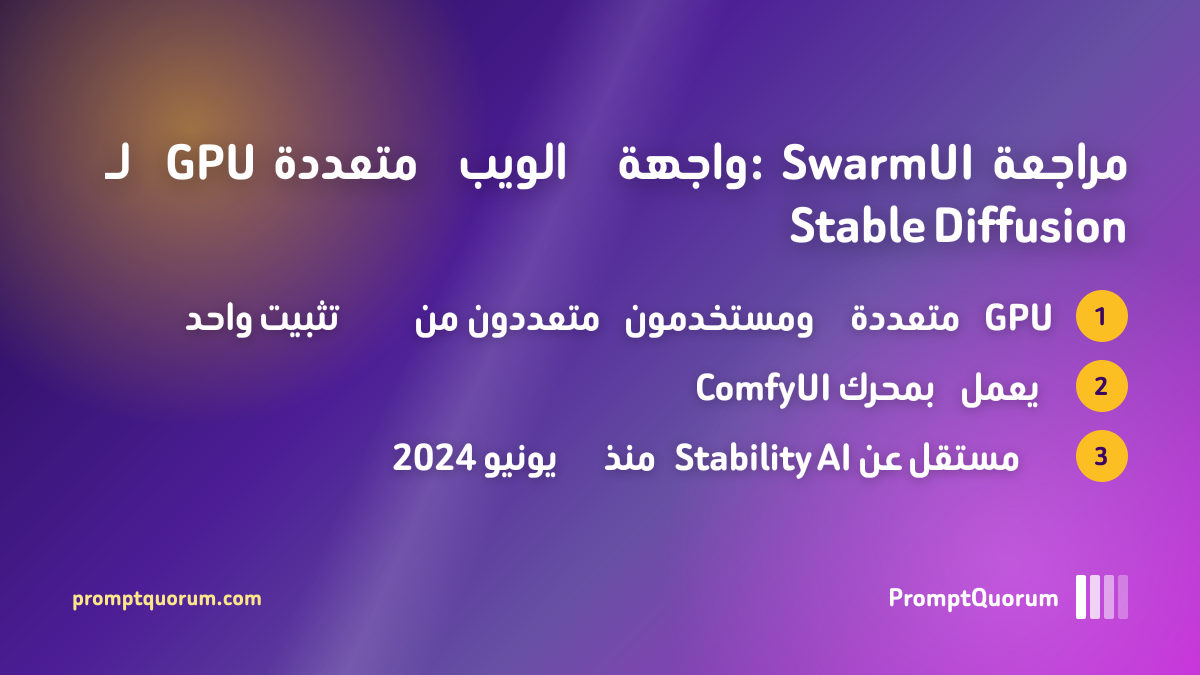
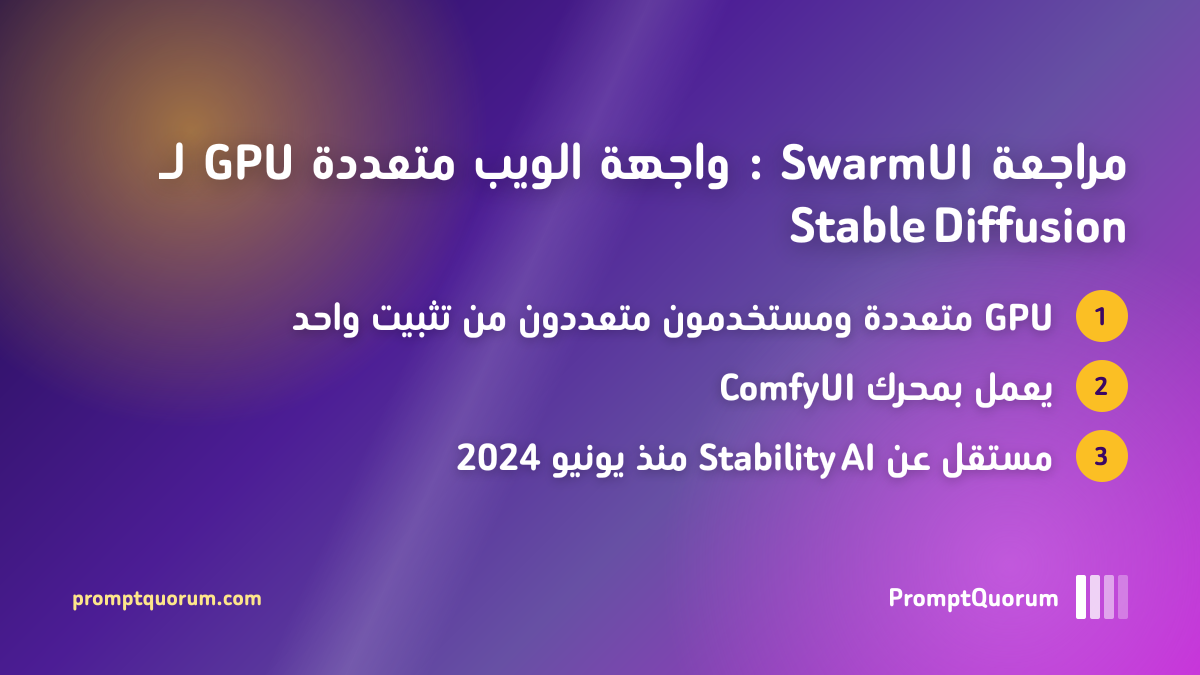
fix(hero-image): exact Arabic word widths via opentype.js shaping; regenerate SwarmUI ar hero

diff --git a/src/app/api/hero-image/route.tsx b/src/app/api/hero-image/route.tsx
@@ -3,6 +3,7 @@ import sharp from 'sharp'
 import fs from 'fs'
 import path from 'path'
 import { splitBidiRuns } from '@/lib/hero/bidi-runs'
+import * as opentype from 'opentype.js'
 
 export const runtime = 'nodejs'
 
@@ -84,9 +85,22 @@ function LogoMark({ color, barWidth = 10, barHeight = 44 }: { color: string; bar
 
 // RTL text: one flex item per Arabic word, one intact LTR item per Latin/number
 // run (see src/lib/hero/bidi-runs.ts). The parent is a row-reverse flex.
-function renderRtlRuns(text: string) {
+// Satori sizes each Arabic word box from unshaped (isolated-form) glyph advances but draws the
+// shaped, connected word inside it, so boxes come out wider than the ink and the gaps between
+// words are uneven. Give every Arabic word an explicit width equal to its shaped width instead
+// (opentype.js applies the Arabic joining features).
+let beirutiBold: opentype.Font | undefined
+function rtlShapedEm(word: string): number {
+  beirutiBold ??= (() => {
+    const buf = fs.readFileSync(path.join(process.cwd(), 'public/fonts/Beiruti-Bold.ttf'))
+    return opentype.parse(buf.buffer.slice(buf.byteOffset, buf.byteOffset + buf.byteLength))
+  })()
+  const shaped = beirutiBold.stringToGlyphs(word).reduce((sum, g) => sum + g.advanceWidth!, 0)
+  return shaped / beirutiBold.unitsPerEm
+}
+function renderRtlRuns(text: string, fontPx: number) {
   return splitBidiRuns(text).map((r, i) => (
-    <div key={i} style={{ display: 'flex', direction: r.dir, whiteSpace: 'nowrap' }}>{r.text}</div>
+    <div key={i} style={{ display: 'flex', direction: r.dir, whiteSpace: 'nowrap', ...(r.dir === 'rtl' ? { width: `${Math.ceil(rtlShapedEm(r.text) * fontPx)}px`, flexShrink: 0 } : {}) }}>{r.text}</div>
   ))
 }
 
@@ -170,7 +184,7 @@ export async function POST(request: Request) {
             }}
           >
             {/* RTL: Satori picks the paragraph direction from the first strong char, so a title starting with a Latin brand name (e.g. "DeepSeek V4 مقابل …") renders with reversed word order. Word-per-flex-item + row-reverse (same trick as the highlight lines) keeps logical order; join Latin multi-word names with NBSP in the caller. */}
-            {isRtl ? renderRtlRuns(title) : title}
+            {isRtl ? renderRtlRuns(title, fontSize) : title}
           </div>
 
           {showFormula && (
@@ -200,9 +214,9 @@ export async function POST(request: Request) {
                   >
                     {i + 1}
                   </div>
-                  <div style={{ display: 'flex', flexDirection: rowDir, flexWrap: 'wrap', columnGap: isRtl ? '6px' : '0px', fontSize: '44px', fontWeight: 700, lineHeight: 1.15, textAlign, textShadow: '0 2px 12px rgba(0,0,0,0.3)' }}>
+                  <div style={{ display: 'flex', flexDirection: rowDir, flexWrap: 'wrap', columnGap: isRtl ? '10px' : '0px', fontSize: '44px', fontWeight: 700, lineHeight: 1.15, textAlign, textShadow: '0 2px 12px rgba(0,0,0,0.3)' }}>
                     {/* Satori's bidi reorders multi-word Arabic text nodes inconsistently, so for RTL each word is its own flex item and row-reverse fixes the word order; shaping stays intact within a word. */}
-                    {isRtl ? renderRtlRuns(line) : line}
+                    {isRtl ? renderRtlRuns(line, 44) : line}
                   </div>
                 </div>
               ))}
